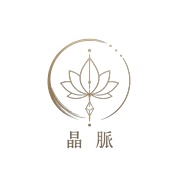
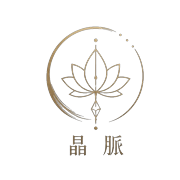
Add files via upload

diff --git a/index.html b/index.html
@@ -97,7 +97,7 @@
 </nav>
 
 <section id="home">
-  <div class="logo-wrap"><img src="logo-hero.png" alt="晶脈 Logo" width="440" height="296" decoding="async"></div>
+  <div class="logo-wrap"><img src="logo-hero.png" alt="晶脈 Logo" width="440" height="364" decoding="async"></div>
   <h1 class="hero-title">順應<span class="accent">晶脈</span>的流動，<br>活出最舒展的生命狀態</h1>
   <p class="hero-sub">歡迎來到晶脈——透過身體、習慣與生活的整體觀察，陪伴每個人找到真正的問題根源，重新建立平衡。</p>
   <div class="hero-cta">

diff --git a/spray.html b/spray.html
@@ -51,7 +51,7 @@
     padding:22px; text-align:center;
   }
   .sample-photo img{
-    max-width:280px; width:100%; margin:0 auto; border-radius:14px; display:block;
+    max-width:220px; width:100%; margin:0 auto; border-radius:14px; display:block;
   }
   .sample-photo .cap{
     margin-top:16px; font-family:var(--round); font-size:12.5px; color:var(--ink-soft); line-height:1.7;
